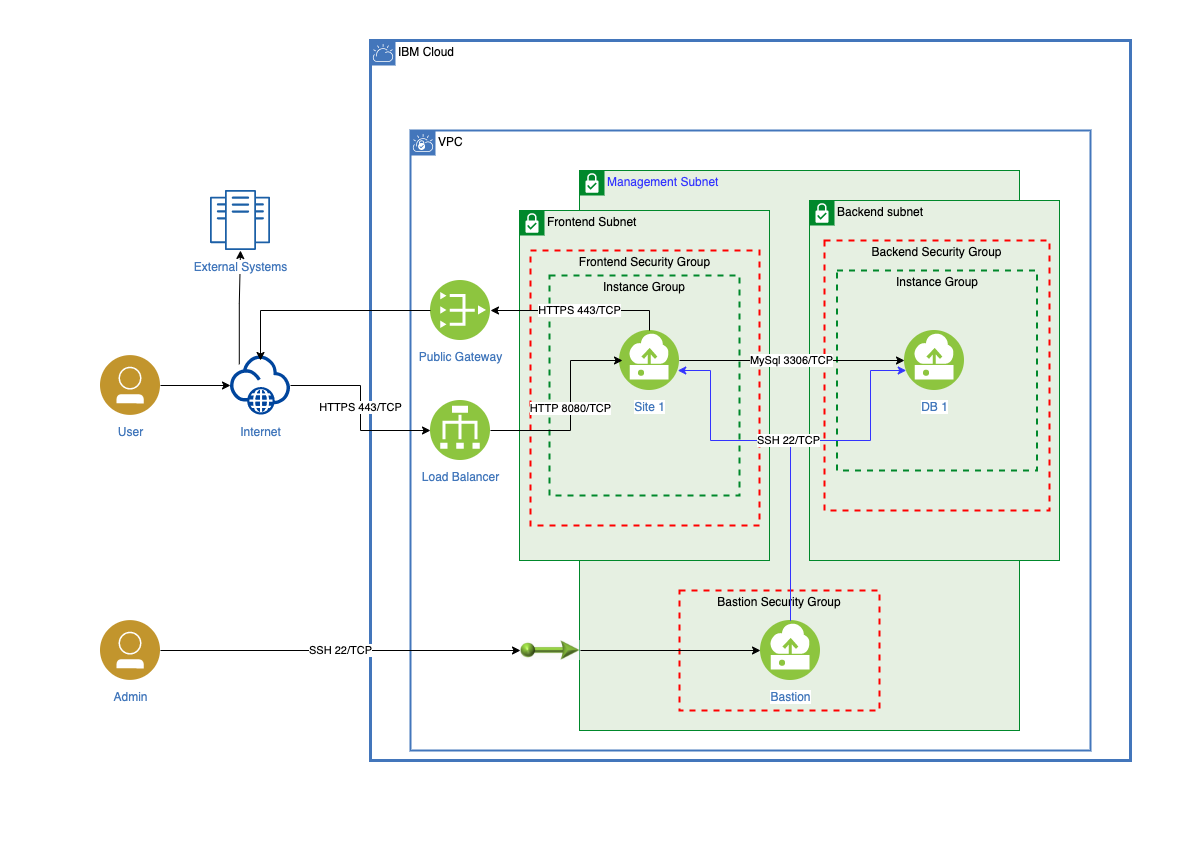
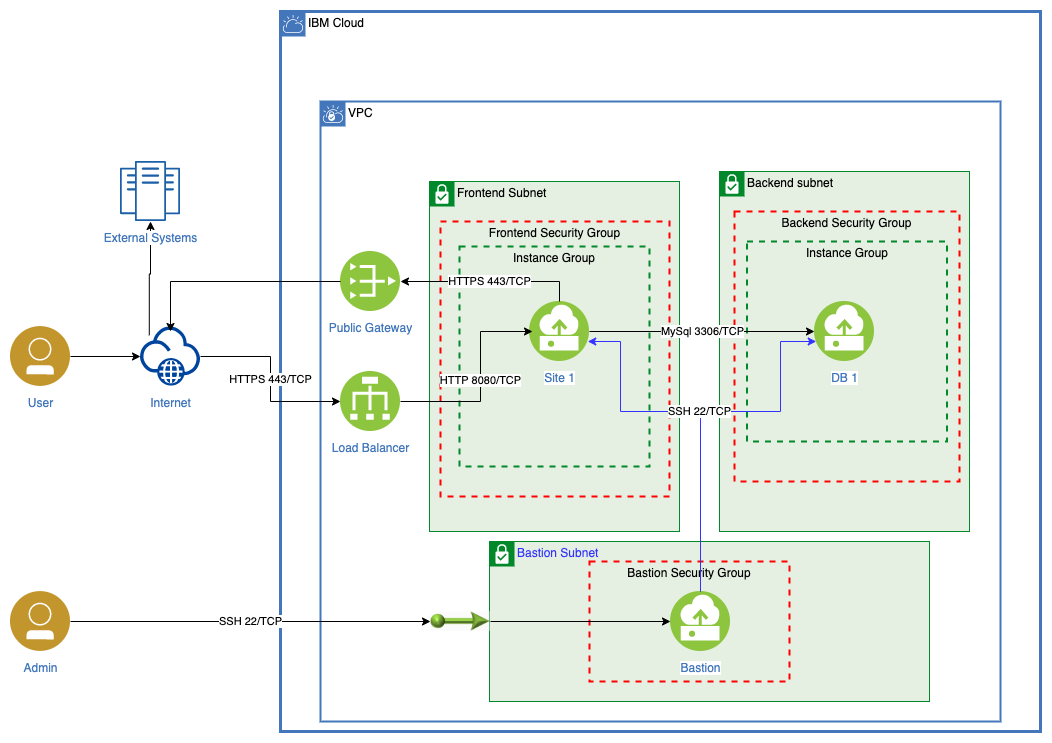
Changed subnets and security
renamed management net in bastion and fixed security groups. instances will now have a single net if

diff --git a/README.md b/README.md
@@ -1,4 +1,4 @@
 # pb-vpc
- Multitier VPC with bastion and management network
+ Multitier VPC with bastion and bastion network
  
  ![Multi-tier VPC with bastion host](images/multitiervpc.png)
